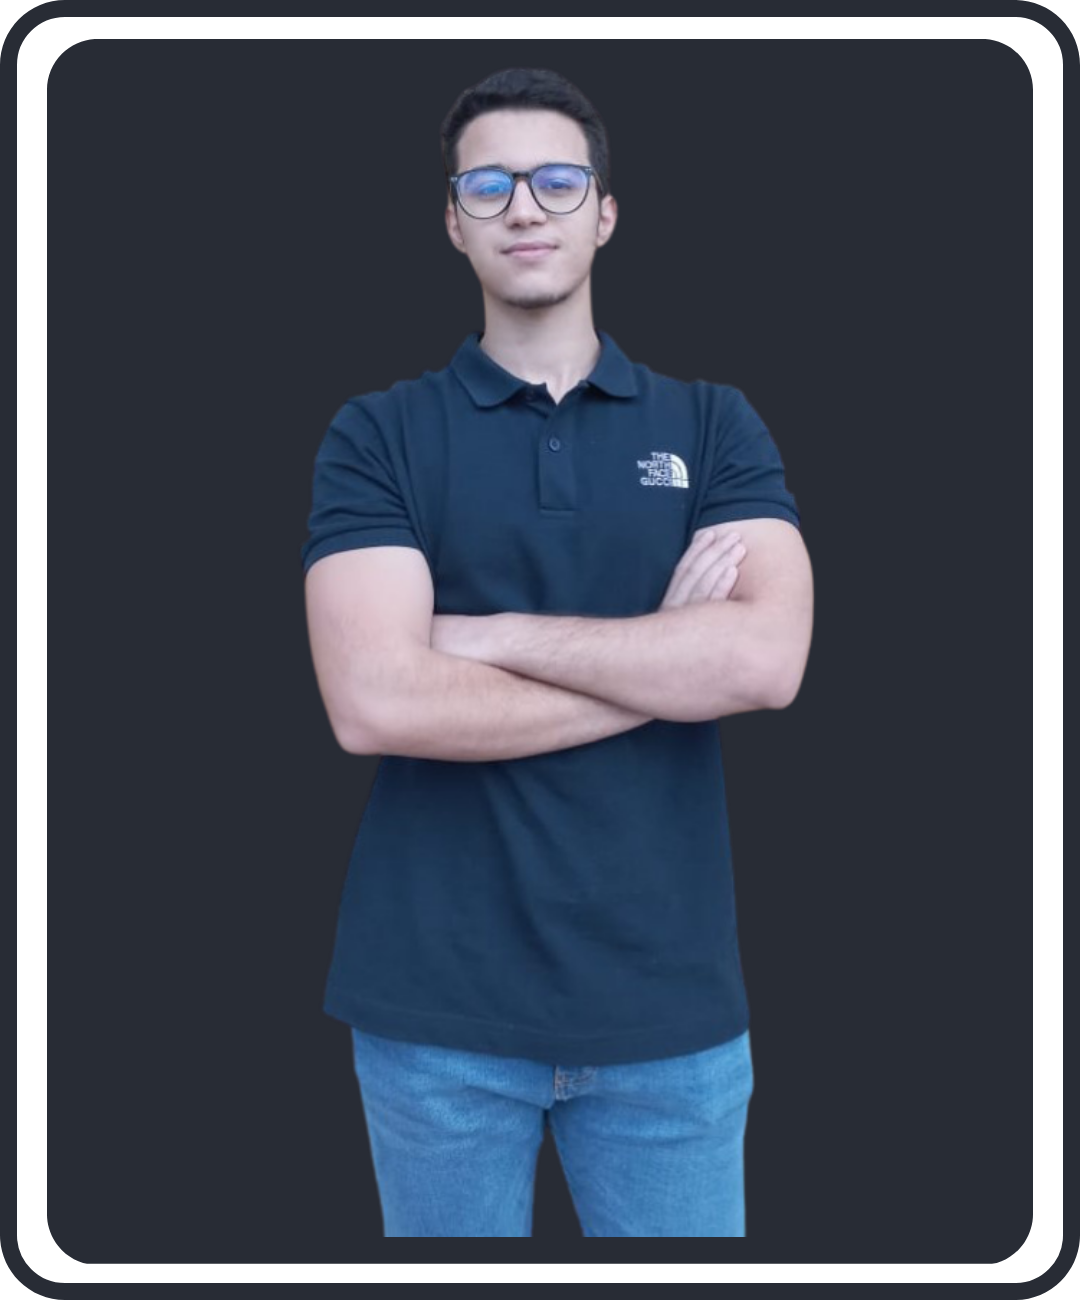
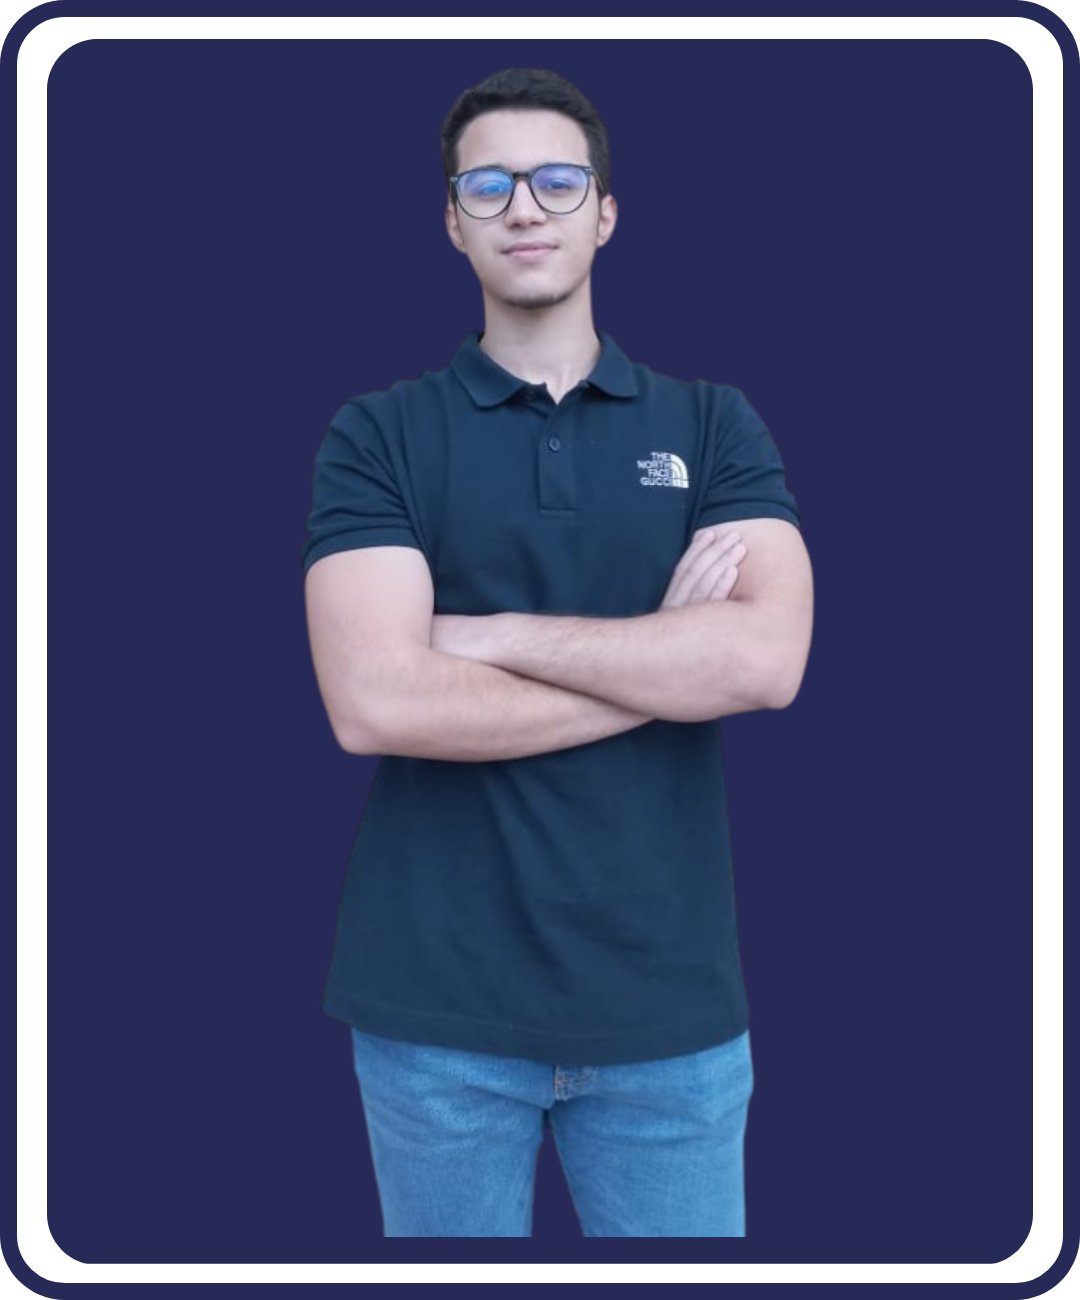
change color

diff --git a/app/globals.css b/app/globals.css
@@ -6,13 +6,13 @@
 
 @layer base {
   :root {
-    --background: 32.7 28.2% 92.4%;
-    --foreground: 0 0% 14.9%;
-    --card: 32.7 28.2% 92.4%;
-    --card-foreground: 0 0% 14.9%;
-    --popover: 32.7 28.2% 92.4%;
-    --popover-foreground: 0 0% 14.9%;
-    --primary: 164.8 58.7% 40.8%;
+    --background: 40 100% 99%;
+    --foreground: 235 42% 26%;
+    --card: 40 100% 99%;
+    --card-foreground: 235 42% 26%;
+    --popover: 40 100% 99%;
+    --popover-foreground: 235 42% 26%;
+    --primary: 353 72% 54%;
     --primary-foreground: 355.7 100% 97.3%;
     --secondary: 240 4.8% 95.9%;
     --secondary-foreground: 240 5.9% 10%;
@@ -22,21 +22,21 @@
     --accent-foreground: 240 5.9% 10%;
     --destructive: 0 84.2% 60.2%;
     --destructive-foreground: 0 0% 98%;
-    --border: 0 0% 14.9%;
-    --input: 0 0% 14.9%;
+    --border: 235 42% 26%;
+    --input: 235 42% 26%;
     --ring: 142.1 76.2% 36.3%;
     --radius: 0.5rem;
   }
 
   .dark {
-    --background: 221.5 14% 18.2%;
-    --foreground: 32.7 28.2% 92.4%;
+    --background: 235 42% 26%;
+    --foreground: 40 100% 99%;
     --card: 24 9.8% 10%;
-    --card-foreground: 32.7 28.2% 92.4%;
+    --card-foreground: 40 100% 99%;
     --popover: 0 0% 9%;
-    --popover-foreground: 32.7 28.2% 92.4%;
-    --primary: 164.8 58.7% 40.8%;
-    --primary-foreground: 32.7 28.2% 92.4%;
+    --popover-foreground: 40 100% 99%;
+    --primary: 353 72% 54%;
+    --primary-foreground: 40 100% 99%;
     --secondary: 240 3.7% 15.9%;
     --secondary-foreground: 0 0% 98%;
     --muted: 0 0% 15%;
@@ -45,8 +45,8 @@
     --accent-foreground: 0 0% 98%;
     --destructive: 0 62.8% 30.6%;
     --destructive-foreground: 0 85.7% 97.3%;
-    --border: 32.7 28.2% 92.4%;
-    --input: 32.7 28.2% 92.4%;
+    --border: 40 100% 99%;
+    --input: 40 100% 99%;
     --ring: 142.4 71.8% 29.2%;
   }
 }

diff --git a/components/home/About.tsx b/components/home/About.tsx
@@ -6,12 +6,7 @@ const About = () => {
   return (
     <section className="pt-8 xl:pt-16">
         <div className="container mx-auto">
-            <h2 className="section-title mb-8 xl:mb-16">
-              <span>
-                About Me
-              </span>
-              About me
-            </h2>
+            <h1 className="text-center">About</h1>
             <div className="flex xl:justify-between justify-center gap-x-8 flex-wrap">  
                 <div className="xl:flex hidden items-center relative">
                   <AboutImage />
@@ -19,15 +14,6 @@ const About = () => {
                 <div className="flex max-w-[600px] flex-col justify-center mx-auto xl:mx-0 text-center xl:text-start mb-6 xl:mb-0">
                   <div className="text-md uppercase font-semibold mb-4 text-primary tracking-[4px]">Hello</div>
                   <p className="xl:text-lg text-base font-light text-justify text-muted-foreground mb-6">
-                    Lorem ipsum dolor sit amet, consectetur 
-                    adipiscing elit. Duis neque nisi, ullamcorper 
-                    a magna non, vestibulum dictum tellus. Nunc non dapibus 
-                    velit, eget semper arcu. Nullam at sem vitae diam 
-                    vehicula auctor.Lorem ipsum dolor sit amet, consectetur 
-                    adipiscing elit. Duis neque nisi, ullamcorper 
-                    a magna non, vestibulum dictum tellus. Nunc non dapibus 
-                    velit, eget semper arcu. Nullam at sem vitae diam 
-                    vehicula auctor.
                     Lorem ipsum dolor sit amet, consectetur 
                     adipiscing elit. Duis neque nisi, ullamcorper 
                     a magna non, vestibulum dictum tellus. Nunc non dapibus 

diff --git a/components/shared/Infos.tsx b/components/shared/Infos.tsx
@@ -1,5 +1,4 @@
-import { RiCommunityFill, RiGithubFill, RiLinkedinFill, RiMailFill, RiPhoneFill } from "react-icons/ri";
-import Link from "next/link";
+import { RiMailFill, RiPhoneFill, RiMap2Fill, RiCalendar2Fill } from "react-icons/ri";
 
 const contactInfos = [
     {
@@ -11,8 +10,12 @@ const contactInfos = [
         text: 'ahmedghanim902@gmail.com'
     },
     {
-        name: <RiCommunityFill />,
+        name: <RiMap2Fill />,
         text: 'Lyon, France'
+    },
+    {
+        name: <RiCalendar2Fill />,
+        text: 'April - 1999'
     }
 ]
 
@@ -20,7 +23,7 @@ const Infos = () => {
   return (
     <div className="flex justify-center flex-col gap-x-4 xl:justify-start">
         {contactInfos.map((info) => {
-           return  (<div key={info.text} className="text-foreground hover:text-primary transition-all flex justify-start items-center text-[18px] gap-x-2 mb-2">
+           return  (<div key={info.text} className="text-foreground hover:text-primary transition-all flex justify-start items-center text-[18px] gap-x-2 mb-4">
            <span className="bg-primary rounded-full p-2 text-white">{info.name}</span>
            <p className="text-md">{info.text}</p>
         </div>)

diff --git a/components/home/Hero.tsx b/components/home/Hero.tsx
@@ -8,12 +8,12 @@ import { RiBriefcase4Fill, RiTodoFill } from "react-icons/ri";
 
 const Hero = () => {
   return (
-    <section className="pt-8 xl:pt-16">
+    <section className="pt-8 xl:pt-20">
         <div className="container mx-auto">
             <div className="flex xl:justify-between justify-center gap-x-8 flex-wrap">
                 <div className="flex max-w-[600px] flex-col justify-center mx-auto xl:mx-0 text-center xl:text-start mb-6 xl:mb-0">
                   <div className="text-sm uppercase font-semibold mb-4 text-primary tracking-[4px]">Web Developer</div>
-                  <h1>Hello, my name is Ahmed GHANIM</h1>
+                  <h1>Hi, I am Ahmed GHANIM</h1>
                   <p className="xl:text-lg text-base font-light xl:text-justify text-muted-foreground mb-6">
                     Lorem ipsum dolor sit amet, consectetur 
                     adipiscing elit. Duis neque nisi, ullamcorper 

diff --git a/components/shared/Header.tsx b/components/shared/Header.tsx
@@ -26,10 +26,10 @@ const Header = () => {
 
   return (
     <header className={`${header ? 
-        'py-4 bg-white shadow-lg dark:bg-accent': 
+        'py-4 bg-white shadow-lg dark:bg-background': 
         'py-6 dark:bg-transparent'} 
         sticky top-0 z-30 transition-all
-        ${pathname === '/' && 'bg-[#F1ECE6]'}`}>
+        ${pathname === '/' && 'bg-[#fefdf9]'}`}>
         <div className="container mx-auto">
             <div className="flex justify-between items-center">
                 <Logo />

diff --git a/components/shared/Logo.tsx b/components/shared/Logo.tsx
@@ -7,7 +7,7 @@ import React from 'react'
 const Logo = () => {
   return (
     <Link href='/'>
-        <Image src='/logo.svg' height={50} width={50} alt='' priority/>
+        <Image src='/logo.png' height={50} width={50} alt='' priority/>
     </Link>
   )
 }
